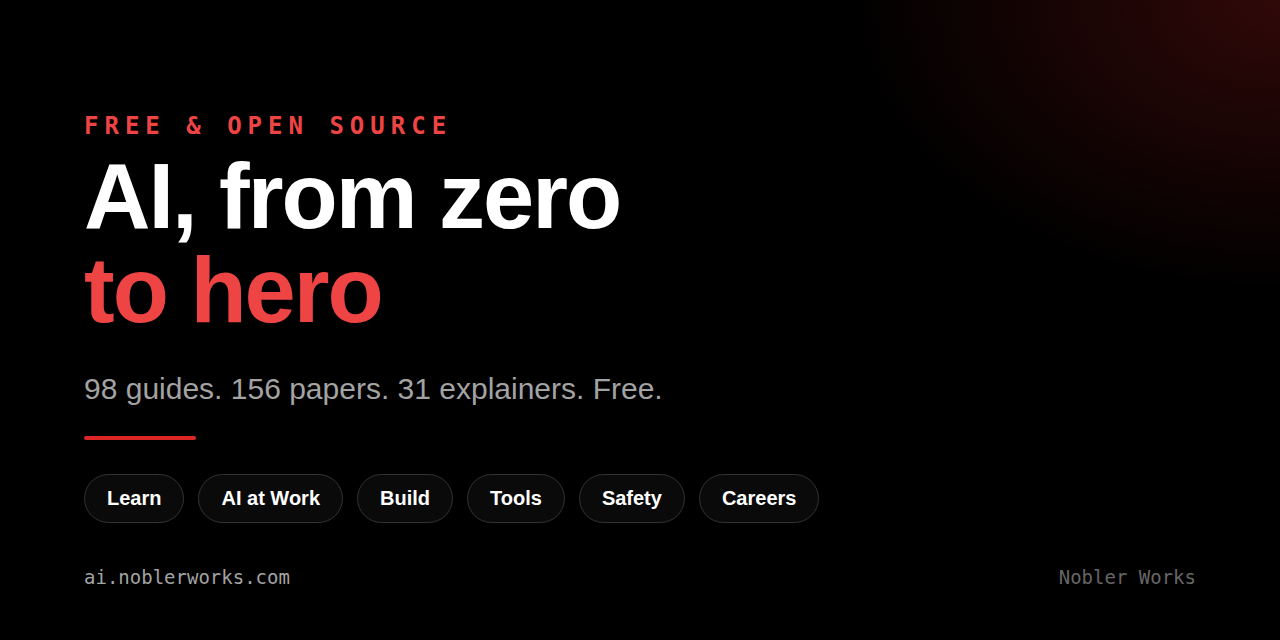
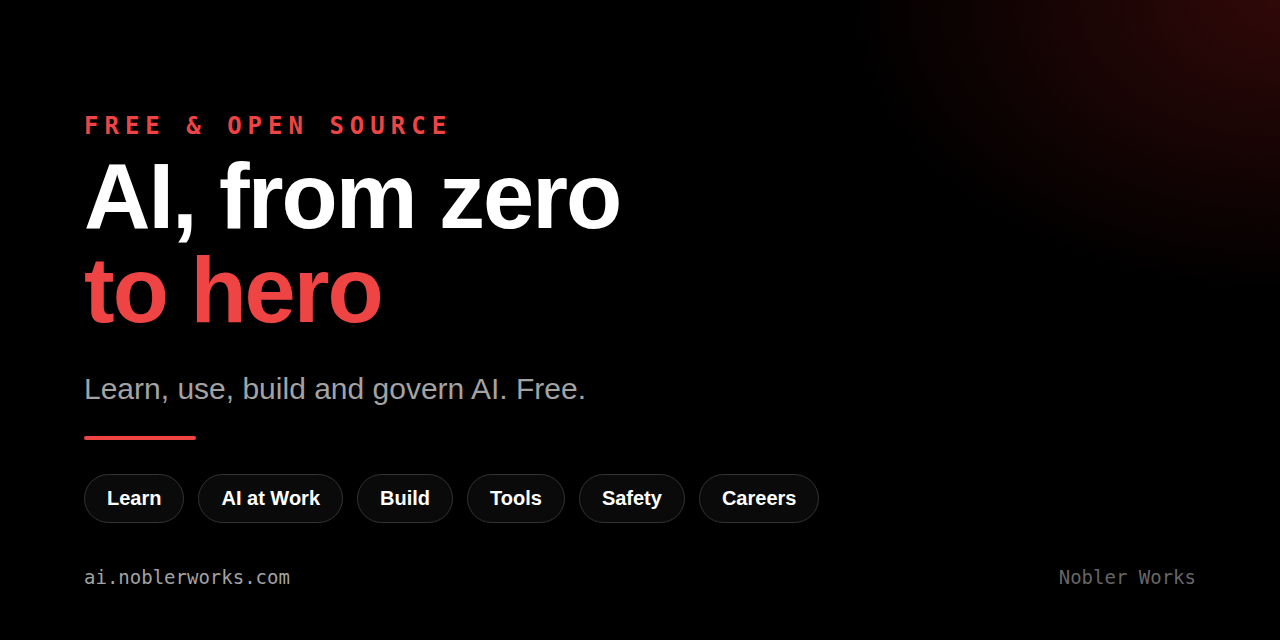
Social card from the shared Zero to Hero template (no counts)

Changed region(s): [[0.0625, 0.5938, 0.5312, 0.625], [0.0625, 0.6562, 0.1562, 0.6875]]

diff --git a/assets/brand/social-preview.html b/assets/brand/social-preview.html
@@ -1,4 +1,9 @@
 <!doctype html>
+<!-- Social preview card (1280x640). One template for all four Zero to Hero sites
+     (cloud / data / security / ai .noblerworks.com) - change all four together.
+     Render: serve this folder over http and screenshot at 1280x640 into
+     social-preview-1280x640.png (headless Chromium or Playwright). No counts on the
+     card: a number baked into an image is a number nothing checks. -->
 <html><head><meta charset="utf-8">
 <style>
   html,body{margin:0;padding:0;background:#000}
@@ -9,7 +14,7 @@
   h1{position:absolute;top:150px;margin:0;font-size:92px;line-height:1.02;font-weight:800;letter-spacing:-2px}
   h1 .a{color:#ef4444}
   .sub{position:absolute;top:372px;font-size:30px;color:#a3a3a3}
-  .rule{position:absolute;top:436px;width:112px;height:4px;background:#dc2626;border-radius:2px}
+  .rule{position:absolute;top:436px;width:112px;height:4px;background:#ef4444;border-radius:2px}
   .chips{position:absolute;top:474px;display:flex;gap:14px}
   .chip{border:1px solid #333;border-radius:28px;padding:12px 22px;font-size:20px;font-weight:700;background:#0a0a0a}
   .url{position:absolute;bottom:52px;font-family:"DejaVu Sans Mono",monospace;font-size:19px;color:#a3a3a3}
@@ -18,7 +23,7 @@
 <body><div class="card">
   <div class="kicker">FREE &amp; OPEN SOURCE</div>
   <h1>AI, from zero<br><span class="a">to hero</span></h1>
-  <div class="sub">98 guides. 156 papers. 31 explainers. Free.</div>
+  <div class="sub">Learn, use, build and govern AI. Free.</div>
   <div class="rule"></div>
   <div class="chips"><div class="chip">Learn</div><div class="chip">AI at Work</div><div class="chip">Build</div><div class="chip">Tools</div><div class="chip">Safety</div><div class="chip">Careers</div></div>
   <div class="url">ai.noblerworks.com</div>
